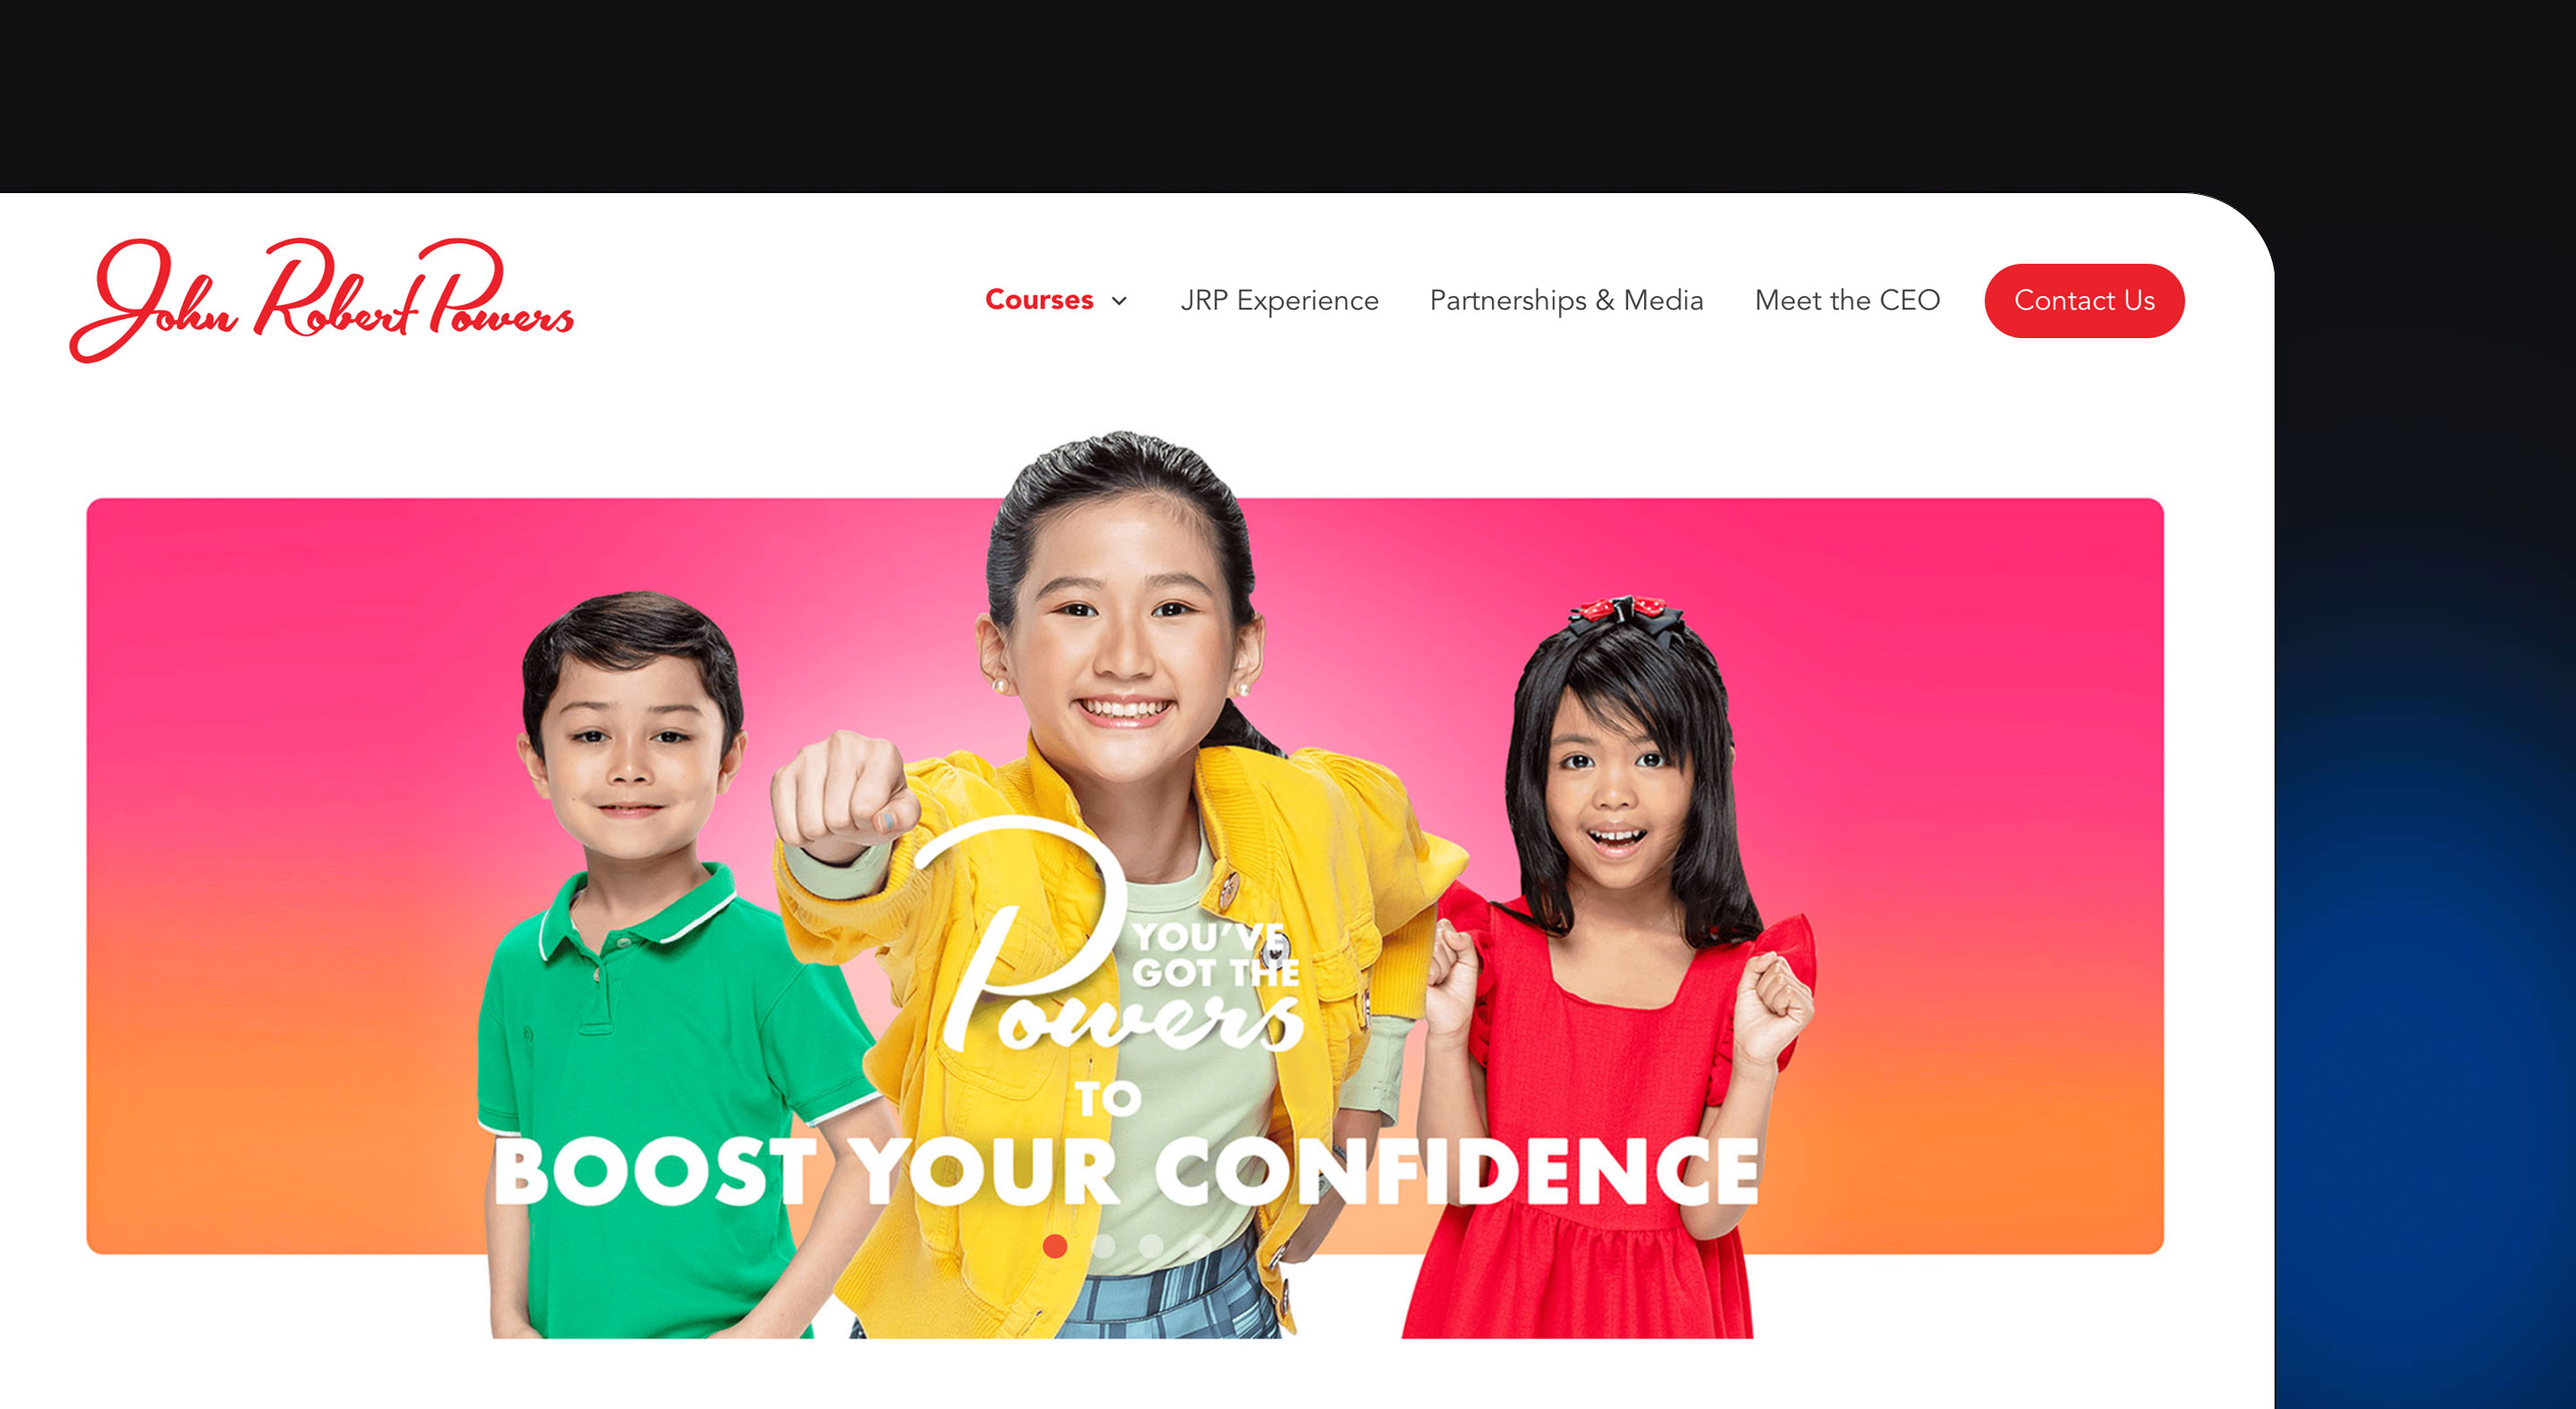
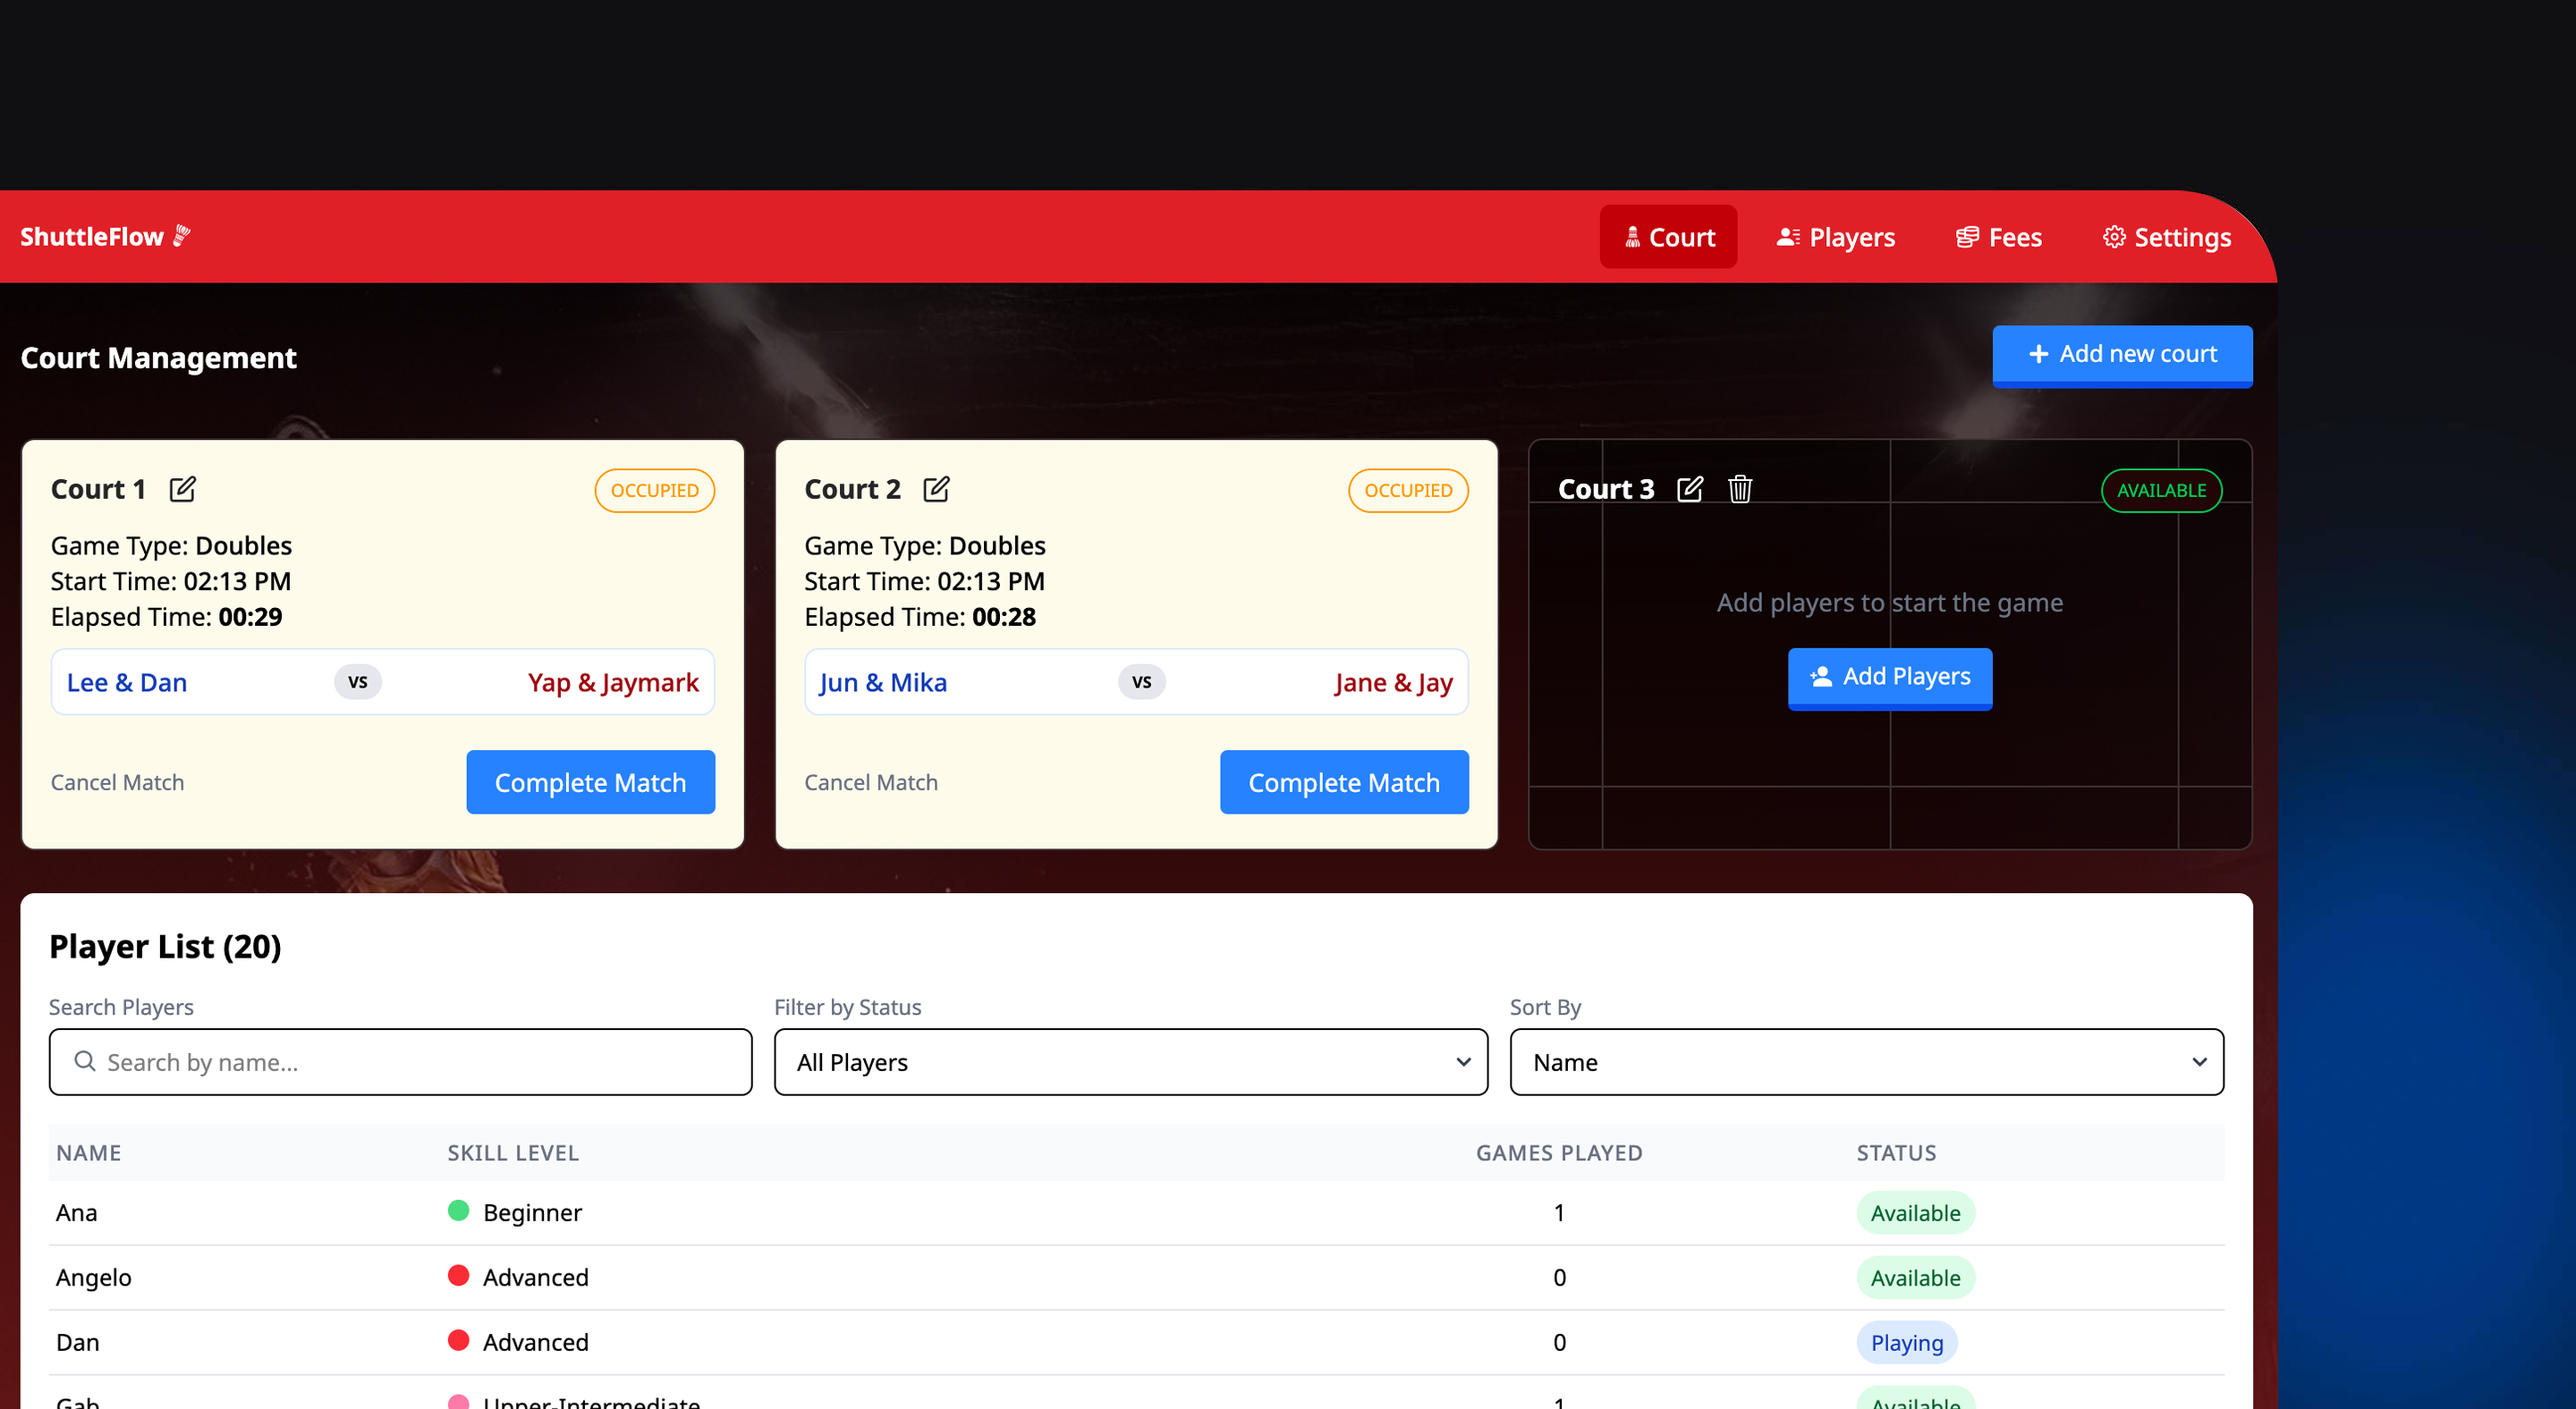
update project

diff --git a/index.html b/index.html
@@ -108,6 +108,22 @@
             <span class="intro-text">The skills, tools and technologies I use to bring your products to life:</span>
             <div class="process-list process-list-icon">
               <div class="container-icons">
+                 <div class="box-icon">
+                  <i class="devicon devicon-react-original" aria-hidden="true"></i>
+                  <p>React</p>
+                </div>
+                <div class="box-icon">
+                  <i class="favicon devicon-nextjs-original-wordmark" aria-hidden="true"></i>
+                  <p>NextJS</p>
+                </div>
+                <div class="box-icon">
+                  <i class="devicon devicon-git-plain" aria-hidden="true"></i>
+                  <p>Git</p>
+                </div>
+                <div class="box-icon">
+                  <i class="devicon devicon-tailwindcss-original" aria-hidden="true"></i>
+                  <p>Tailwind</p>
+                </div>
                 <div class="box-icon">
                   <i class="devicon devicon-html5-plain" aria-hidden="true"></i>
                   <p>HTML5</p>
@@ -129,28 +145,12 @@
                   <p>jQuery</p>
                 </div>
                 <div class="box-icon">
-                  <i class="devicon devicon-react-original" aria-hidden="true"></i>
-                  <p>React</p>
-                </div>
-                <div class="box-icon">
-                  <i class="favicon devicon-nextjs-original-wordmark" aria-hidden="true"></i>
-                  <p>NextJS</p>
-                </div>
-                <div class="box-icon">
-                  <i class="devicon devicon-git-plain" aria-hidden="true"></i>
-                  <p>Git</p>
-                </div>
-                <div class="box-icon">
                   <i class="devicon devicon-github-plain" aria-hidden="true"></i>
                   <p>Github</p>
                 </div>
                 <div class="box-icon">
                   <i class="fas fa-cogs" aria-hidden="true"></i>
                   <p>RESTful APIs</p>
-                </div>
-                <div class="box-icon">
-                  <i class="devicon devicon-tailwindcss-original" aria-hidden="true"></i>
-                  <p>Tailwind</p>
                 </div>
                 <div class="box-icon">
                   <img src="https://anniebombanie.com/assets/icon-tablet-phone-and-browser.svg" alt="icon of tablet, phone and browser window." aria-hidden="true">
@@ -189,6 +189,25 @@
             </div>
           </div>
           <div class="exploration-grid">
+            <a href="https://www.shuttleflow.ph/" target="_blank">
+              <img src="/img/project-7.jpg" alt="Shortname - a tool that you can use to shortening your link">
+              <p class="tag">ShuttleFlow</p>
+              <p class="figure">Optimize badminton sessions, player queues, and court assignments—the all-in-one platform for badminton clubs.</p>
+              <ul>
+                <li><i class="devicon-typescript-plain"></i></li>
+                <li><i class="devicon-nextjs-original-wordmark"></i></li>
+                <li><i class="devicon-tailwindcss-original"></i></li>
+                <li><i class="devicon-git-plain"></i></li>
+                <li><i class="devicon-firebase-plain"></i></li>
+                <li><i class="devicon-vercel-original"></i></li>
+              </ul>
+              <div class="card-border">
+                <span class="top"></span>
+                <span class="right"></span>
+                <span class="bottom"></span>
+                <span class="left"></span>
+              </div>
+            </a>
             <a href="https://www.shortname.it/" target="_blank">
               <img src="./img/project-1.jpg" alt="Shortname - a tool that you can use to shortening your link">
               <p class="tag">Shortname</p>
@@ -218,24 +237,6 @@
                 <li><i class="devicon-sass-original"></i></li>
                 <li><i class="devicon-jquery-plain"></i></li>
                 <li><i class="devicon-bootstrap-plain"></i></li>
-              </ul>
-              <div class="card-border">
-                <span class="top"></span>
-                <span class="right"></span>
-                <span class="bottom"></span>
-                <span class="left"></span>
-              </div>
-            </a>
-            <a href="https://www.johnrobertpowers.ph/" target="_blank">
-              <img src="/img/project-7.jpg" alt="Shortname - a tool that you can use to shortening your link">
-              <p class="tag">John Robert Powers</p>
-              <p class="figure">Offers programs that develop confidence and essential soft skills, such as public speaking and leadership.</p>
-              <ul>
-                <li><i class="devicon-wordpress-plain"></i></li>
-                <li><i class="devicon-php-plain"></i></li>
-                <li><i class="devicon-javascript-plain"></i></li>
-                <li><i class="devicon-sass-original"></i></li>
-                <li><i class="devicon-git-plain"></i></li>
               </ul>
               <div class="card-border">
                 <span class="top"></span>
